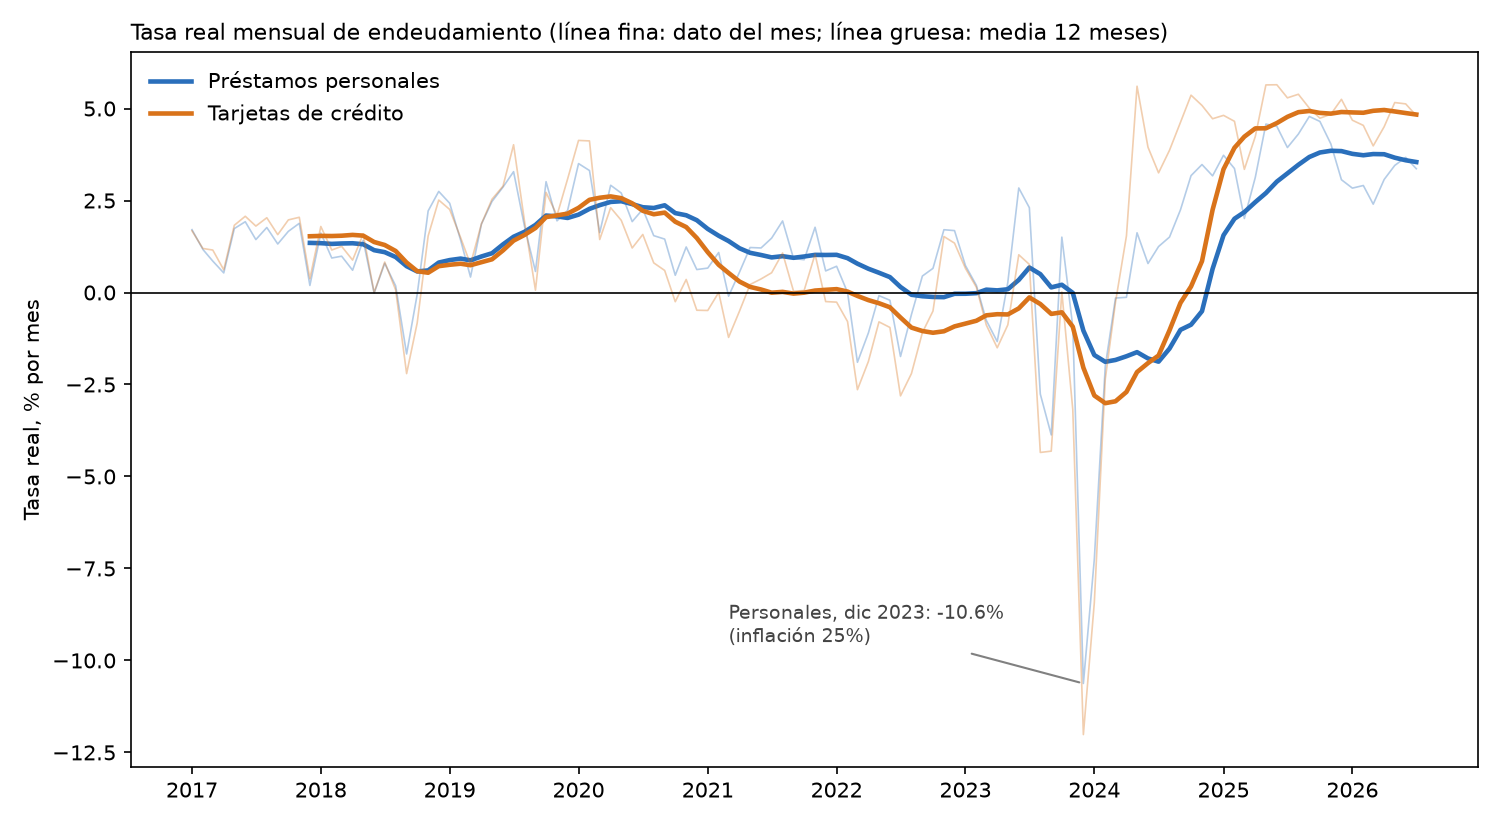
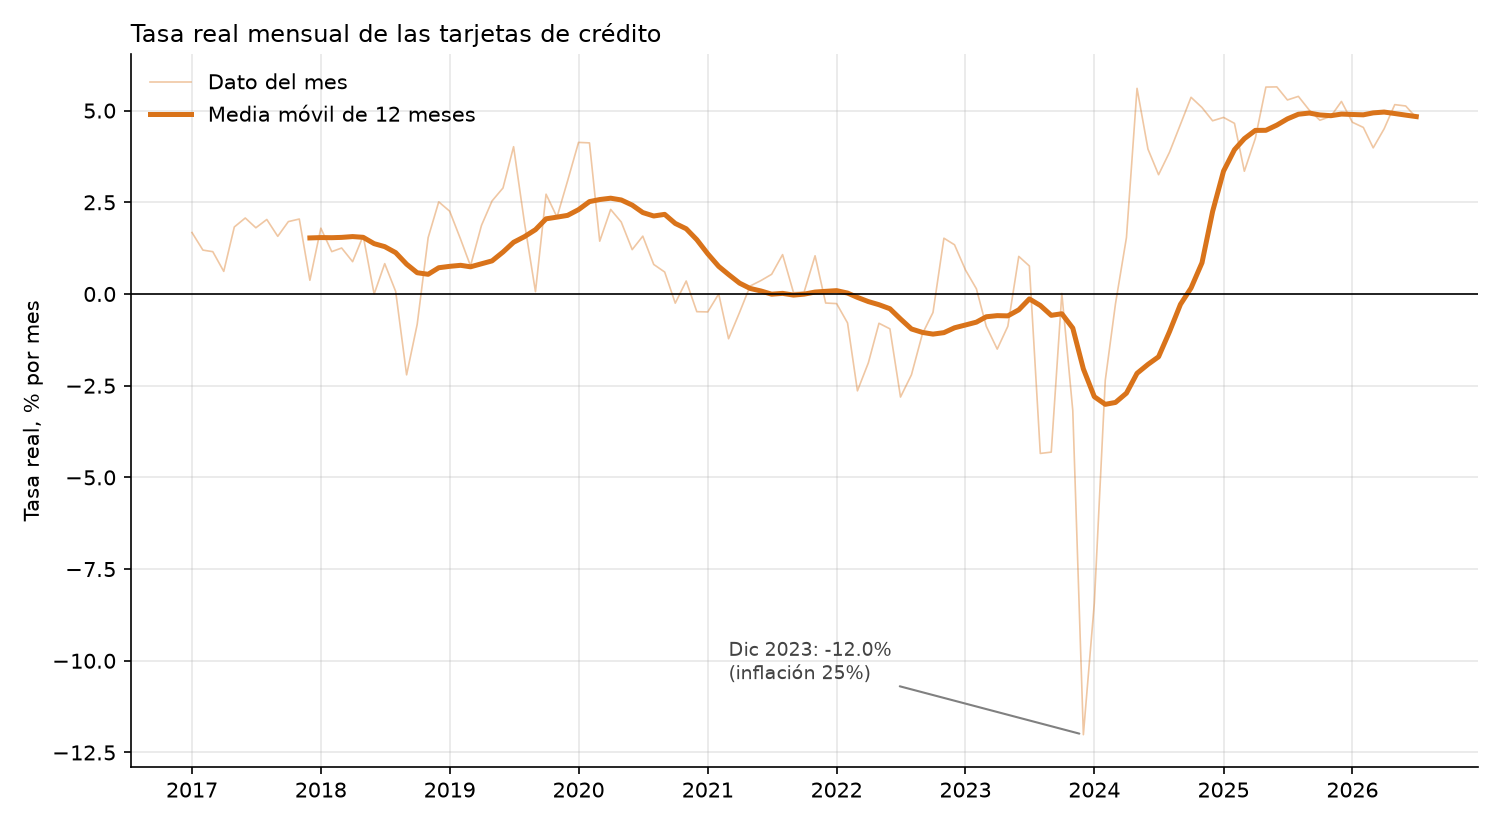
Analizar solo tarjetas de crédito (scripts 03 y 04, README)

diff --git a/scripts/03_tasa_real_media.py b/scripts/03_tasa_real_media.py
@@ -1,0 +1,31 @@
+"""
+03_tasa_real_media.py: tasa real mensual de las tarjetas de crédito.
+Línea fina: dato de cada mes. Línea gruesa: media móvil de 12 meses.
+
+Salida: resultados/graficos/tasa_real_media.png
+"""
+from inicio import pd, plt, cargar_panel, COLORES, ruta_grafico
+
+df = cargar_panel()
+
+r = df["r_tarjetas"] * 100            # tasa real, % por mes
+media12 = r.rolling(12).mean()        # media del mes y los 11 anteriores
+color = COLORES["r_tarjetas"]
+
+fig, ax = plt.subplots(figsize=(10, 5.5))
+ax.plot(r.index, r, color=color, linewidth=0.8, alpha=0.4, label="Dato del mes")
+ax.plot(media12.index, media12, color=color, linewidth=2.4, label="Media móvil de 12 meses")
+ax.axhline(0, color="black", linewidth=0.8)
+
+mes_min = r.idxmin()
+ax.annotate(f"Dic 2023: {r.min():.1f}%\n(inflación 25%)",
+            xy=(mes_min, r.min()),
+            xytext=(pd.Timestamp("2021-03-01"), -10.5),
+            arrowprops=dict(arrowstyle="-", color="gray"), fontsize=9, color="#444")
+
+ax.set_ylabel("Tasa real, % por mes")
+ax.set_title("Tasa real mensual de las tarjetas de crédito", fontsize=11.5, loc="left")
+ax.legend(loc="upper left", frameon=False)
+plt.tight_layout()
+plt.savefig(ruta_grafico("tasa_real_media.png"), dpi=150)
+# plt.show()

diff --git a/scripts/04_puntos_de_cambio.py b/scripts/04_puntos_de_cambio.py
@@ -22,7 +22,7 @@ from inicio import np, pd, plt, cargar_panel, ruta_grafico, ruta_tabla
 import ruptures as rpt
 
 # ---------------- Parámetros que podés tocar ----------------
-SERIES = ["r_personales", "r_tarjetas"]   # series a analizar
+SERIES = ["r_tarjetas"]   # series a analizar
 MIN_TAMANO = 12          # un régimen dura al menos 12 meses
 MAX_QUIEBRES = 4         # máximo de quiebres que prueba el método 2
 PENALIZACIONES = [1, 2, 3, 5, 8]   # multiplicadores de la penalización de PELT (método 1)

diff --git a/README.md b/README.md
@@ -1,18 +1,26 @@
-# Contar con Datos 2026: costo del crédito y salario real
+# Contar con Datos 2026: costo real del crédito con tarjeta
 
-¿El costo real de un préstamo personal o de una tarjeta crece más rápido que el salario real
-de quien lo paga, y varía según el sector? Análisis mensual de enero de 2017 a julio de 2026.
+¿Cuándo fue cara y cuándo barata la deuda de tarjeta de crédito frente a la inflación?
+Análisis mensual de enero de 2017 a julio de 2026.
 
 ## Resultado principal
 
-Sin amortizar, una deuda por préstamo personal crece **+327%** en términos reales desde
-diciembre de 2016, mientras los salarios reales terminan **por debajo** de ese nivel
-(privado registrado −20,5%, público −34,3%, no registrado −6,5%).
-La tasa real de endeudamiento pasa por regímenes bien distintos: deuda cara hasta 2020 o 2021,
-barata entre 2021 y 2023 (con un tramo muy negativo a fines de 2023) y muy cara desde 2024.
+La tasa real de las tarjetas (tasa nominal descontada la inflación) pasa por cuatro regímenes,
+detectados con PELT y con segmentación por mínimos cuadrados y BIC:
 
-> El supuesto "sin amortizar" es un caso extremo (nadie deja de pagar por completo).
-> Mide la presión del sistema, no la deuda de una persona real.
+| Régimen | Tasa real media mensual |
+|---|---|
+| Hasta agosto de 2020 | +1,6% |
+| Septiembre de 2020 a marzo de 2023 | −0,3% |
+| Abril de 2023 a marzo de 2024 | −3,0% |
+| Desde abril de 2024 | +4,6% |
+
+En diciembre de 2023 la tasa real llegó a −12,0%: la inflación fue de 25% en el mes y la tasa
+nominal de las tarjetas apenas superó el 10%.
+
+Los tres quiebres de fecha aparecen en 5 de 5 configuraciones de PELT. La duración del tramo
+más negativo depende del largo mínimo de régimen que se fije (12 meses en el análisis base;
+con 6 meses el tramo se acorta a unos 8).
 
 ## Estructura
 
@@ -23,8 +31,8 @@ contar-datos-2026/
 │   └── procesados/      panel_mensual.csv (generado por scripts/01)
 ├── scripts/             código, numerado en el orden en que se corre
 ├── resultados/
-│   ├── graficos/        figuras en PNG
-│   └── tablas/          tablas en CSV
+│   ├── graficos/        grafico_2023.png, tasa_real_media.png, quiebres_r_tarjetas.png
+│   └── tablas/          resumen_por_periodo.csv, puntos_de_cambio.csv
 ├── docs/                bases y condiciones del concurso
 ├── requirements.txt
 └── README.md
@@ -38,13 +46,9 @@ source .venv/bin/activate
 pip install -r requirements.txt
 
 python3 scripts/01_construir_panel.py     # arma el panel a partir de los datos crudos
-python3 scripts/02_analisis_basico.py     # media y desvío por período
-python3 scripts/03_acumulado_deuda.py     # deuda sin amortizar contra ingreso, por sector
-python3 scripts/04_tasa_real_media.py     # gráfico de la tasa real
-python3 scripts/05_salario_real.py        # gráfico del salario real
-python3 scripts/06_credito_vs_salario.py      # deuda contra salarios, base 100
-python3 scripts/07_credito_vs_salario_pct.py  # igual, en variación porcentual
-python3 scripts/08_puntos_de_cambio.py    # detección de regímenes (PELT y BIC)
+python3 scripts/02_analisis_basico.py     # media y desvío por período, y detalle de 2023
+python3 scripts/03_tasa_real_media.py     # gráfico de la tasa real de tarjetas
+python3 scripts/04_puntos_de_cambio.py    # detección de regímenes (PELT y BIC)
 ```
 
 Cada script se puede correr desde cualquier carpeta. `scripts/inicio.py` concentra las
@@ -55,22 +59,21 @@ librerías, los colores, las rutas y las funciones comunes.
 | Archivo | Contenido | Fuente |
 |---|---|---|
 | `datos/crudos/ipc_mensual.csv` | IPC nivel general, base dic-2016 = 100 | INDEC, vía datos.gob.ar (serie 148.3_INIVELNAL_DICI_M_26) |
+| `datos/crudos/tasas_interes.csv` | Tasas de interés activas (TNA %); se usa la columna de tarjetas | BCRA, vía datos.gob.ar |
 | `datos/crudos/indice_salarios.csv` | Índice de salarios por sector, oct-2016 = 100 | INDEC |
-| `datos/crudos/tasas_interes.csv` | Tasas de interés activas (TNA %), incluye personales y tarjetas | BCRA, vía datos.gob.ar |
-| `datos/crudos/ripte.csv` | RIPTE, remuneración imponible promedio | Secretaría de Seguridad Social, vía datos.gob.ar (no usado todavía) |
+| `datos/crudos/ripte.csv` | RIPTE, remuneración imponible promedio (no usado todavía) | Secretaría de Seguridad Social, vía datos.gob.ar |
 
 ## Método, en resumen
 
 - Tasa nominal mensual: `i = (1 + TNA / (100 * 365)) ** 30 - 1`
 - Tasa real (Fisher): `r = (1 + i) / (1 + pi) - 1`
-- Salario real: `g = (1 + w) / (1 + pi) - 1`
-- Deuda sin amortizar respecto del ingreso: producto acumulado de `(1 + r) / (1 + g)`
 - Regímenes: PELT y segmentación por mínimos cuadrados con selección por BIC
   (en el espíritu de Bai-Perron, sin los tests sup-F ni los intervalos de confianza).
 
 ## Limitaciones
 
-- Misma tasa de interés para todos los sectores; las diferencias salen solo del salario.
-- La serie de salarios no registrados viene de la EPH, con suavizado y rezago de unos 5 meses.
+- Es la tasa promedio del sistema informada al BCRA, no la de una entidad ni la de una persona.
+- No incluye comisiones, seguros ni cargos.
+- La conversión de TNA a tasa mensual (capitalización cada 30 días) es una convención propia.
 - 115 observaciones mensuales y un único episodio de alta inflación.
 - Los quiebres detectados dependen de parámetros (largo mínimo de régimen, penalización).
